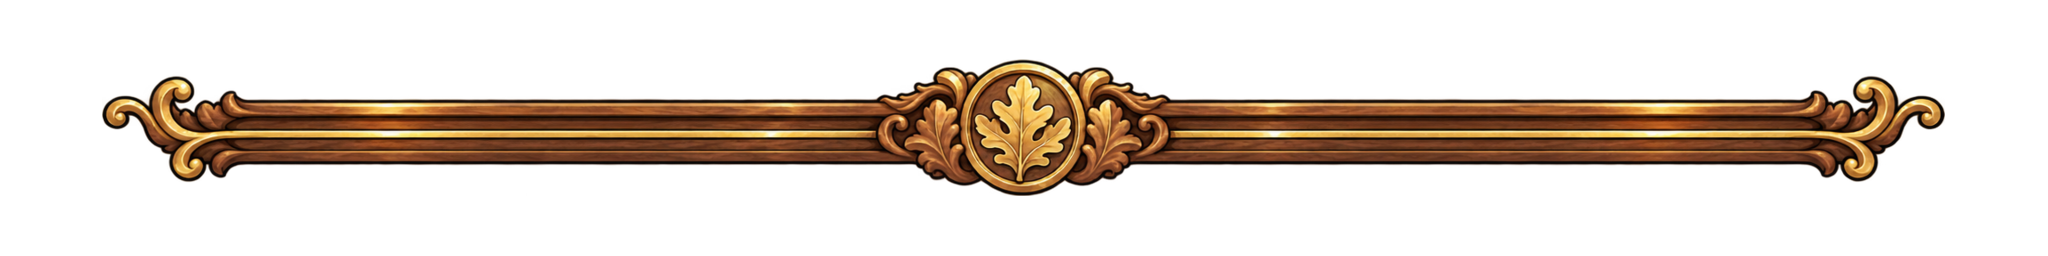
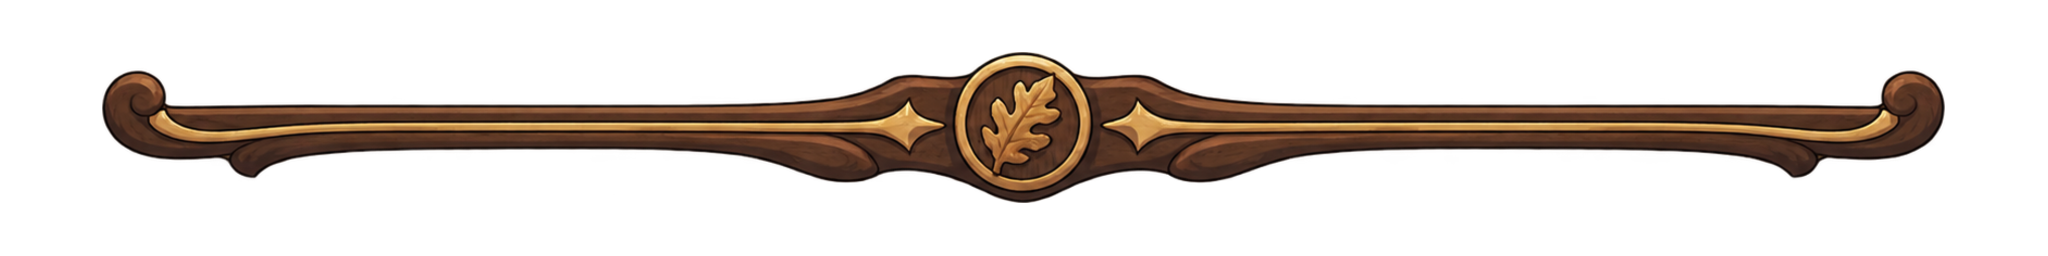
Finish Part 00B ornaments in the approved warm anime prop style

Changed region(s): [[0.0312, 0.1875, 0.9688, 0.7812]]

diff --git a/art/REVIEW.md b/art/REVIEW.md
@@ -5,3 +5,5 @@ Following MASTER.md at9feda5c: TRAGIC BUT WARM. Scenes, portraits and vignettes 
 Emblems, icons, ornaments and UI are explicitly exempt: retain the approved bright warm Part00B anime prop style, with no blood, ash or damage added. The ten already-pushed Part00B class emblems remain unchanged; the remaining three and seven ornaments will follow the supplied lute reference. The cancelled dark emblem candidates were never saved to the repository.
 
 Part00C requires replacement of all26 class scenes at their original paths. Previous cheerful scenes are omitted from PROGRESS.md until replaced; their old versions remain in Git history. Newly generated cheerful Artificer-phone and species candidates are paused and will not be saved. PROGRESS.md contains plain completed file paths only.
+
+Part00B complete under final tone exception:13 class emblems and7 ornaments, all with required pixel sizes and real alpha transparency. The approved first10 class emblems were preserved unchanged. Next is Part00C, overwriting the26 cheerful class scenes in tragic-but-warm style.

diff --git a/art/PROGRESS.md b/art/PROGRESS.md
@@ -20,3 +20,8 @@ art/batch/emblems/class/wizard.png
 art/batch/emblems/class/artificer.png
 art/batch/g0/frame-portrait.png
 art/batch/g0/badge-level.png
+art/batch/g0/divider-wood.png
+art/batch/g0/corner-wood.png
+art/batch/g0/corner-metal.png
+art/batch/g0/corner-vine.png
+art/batch/g0/crest-app.png
